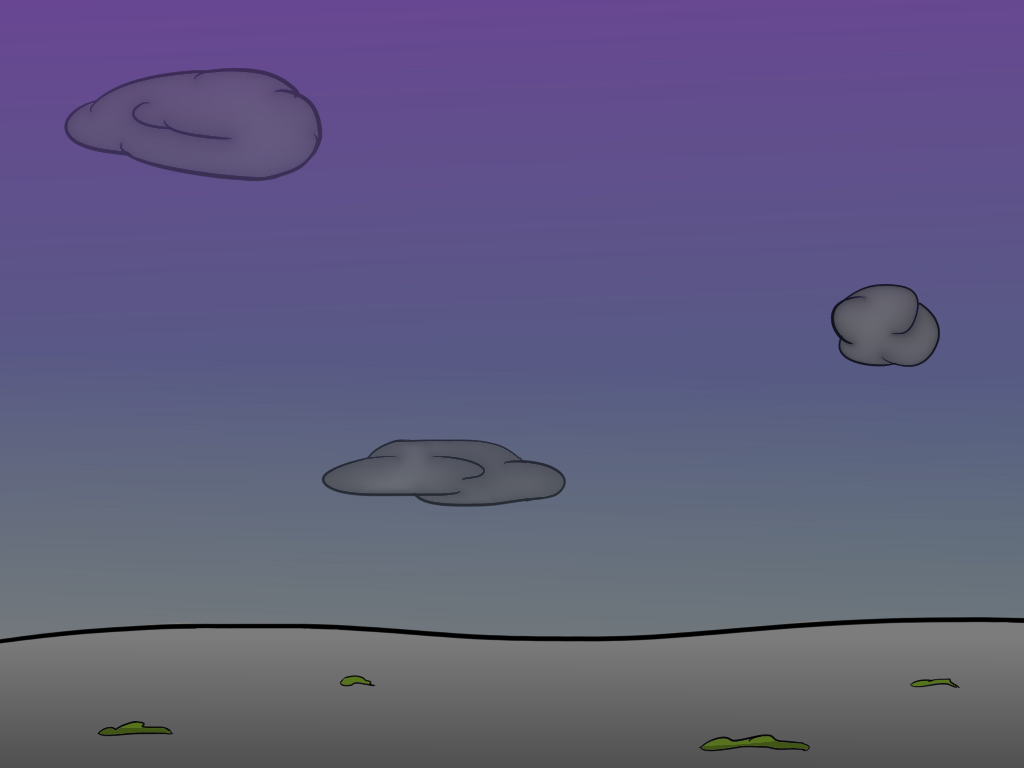
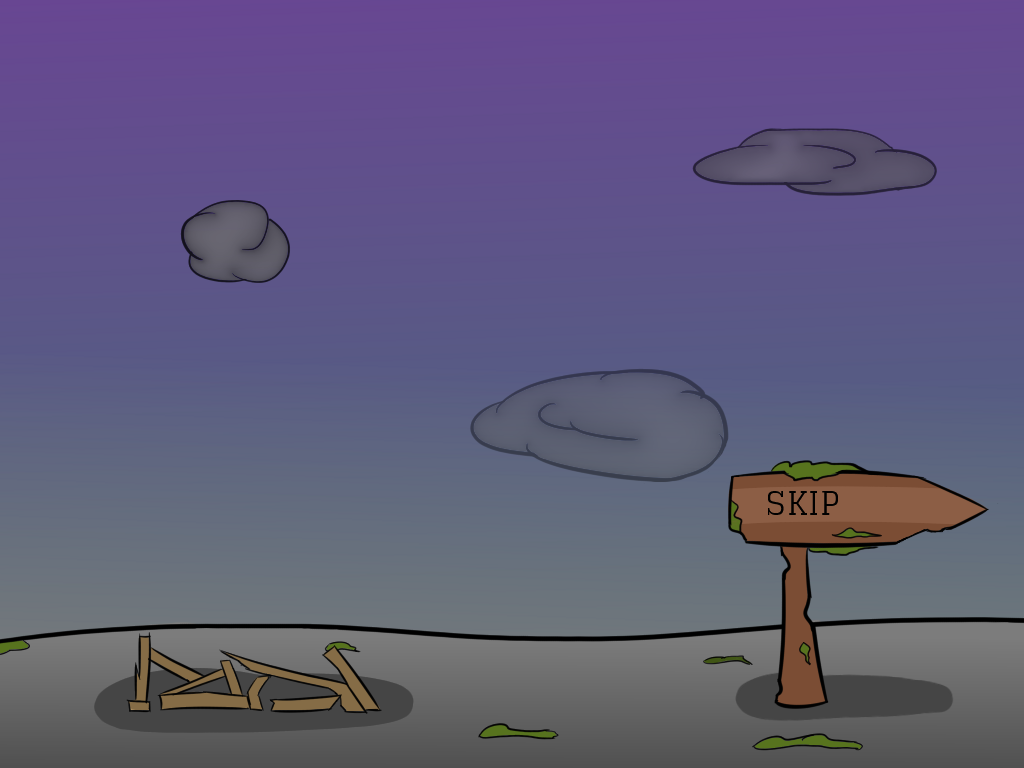
intro background

diff --git a/Menu.py b/Menu.py
@@ -28,7 +28,8 @@ class Menu:
         self.image_highScores = pg.image.load("images/mainMenu/high_scores.png").convert_alpha()
         self.image_mainMenu = pg.image.load("images/mainMenu/main_menu.png").convert_alpha()
         self.image_mainMenuBackground = pg.image.load("images/mainMenu/main_menu_background.png").convert_alpha()
-        self.image_normalBackGround = pg.image.load("images/mainMenu/intro_background.png").convert_alpha()
+        self.image_normalBackGround = pg.image.load("images/mainMenu/normal_background.png").convert_alpha()
+        self.image_introBackGround = pg.image.load("images/mainMenu/intro_background.png").convert_alpha()
         self.image_difficultyBackground = pg.image.load("images/mainMenu/difficulty_background.png").convert_alpha()
         self.image_backSign = pg.image.load("images/mainMenu/back_sign.png").convert_alpha()
         self.image_difficultyBuilding = pg.image.load("images/mainMenu/difficulty_building.png").convert_alpha()
@@ -136,7 +137,15 @@ class Menu:
         self.screen.fill(white)
         
         if self.currentWindow == "context":
-            self.screen.blit(self.image_normalBackGround, (0, 0))
+            #skip button
+            x = 731
+            y = 469
+            buttonWidth = 990-731
+            buttonHeight = 547-469
+            self.button(731, 469, buttonWidth, buttonHeight, green, bright_green, "skip")
+            #background
+            self.screen.blit(self.image_introBackGround, (0, 0))
+            #rectangle
             y = 25
             x = SCREEN_WIDTH//2
             textColor = white
@@ -153,12 +162,7 @@ class Menu:
             self.textDisplay("air to assert their superiority. In order to surive, you decided", textColor, 20, x, ((self.buttonHeight/3)+64+(y*6)) )
             self.textDisplay("to raid the surrounding ruins to find money in order to purchase ", textColor, 20, x, ((self.buttonHeight/3)+64+(y*7)) )
             self.textDisplay("an air purifier which could offer you and your village independance.", textColor, 20, x, ((self.buttonHeight/3)+64+(y*8)) )
-            x = 731
-            y = 469
-            buttonWidth = 990-731
-            buttonHeight = 547-469
-
-            self.button(731, 469, buttonWidth, buttonHeight, green, bright_green, "skip")
+            
             
 
         elif self.currentWindow == "mainMenu":
